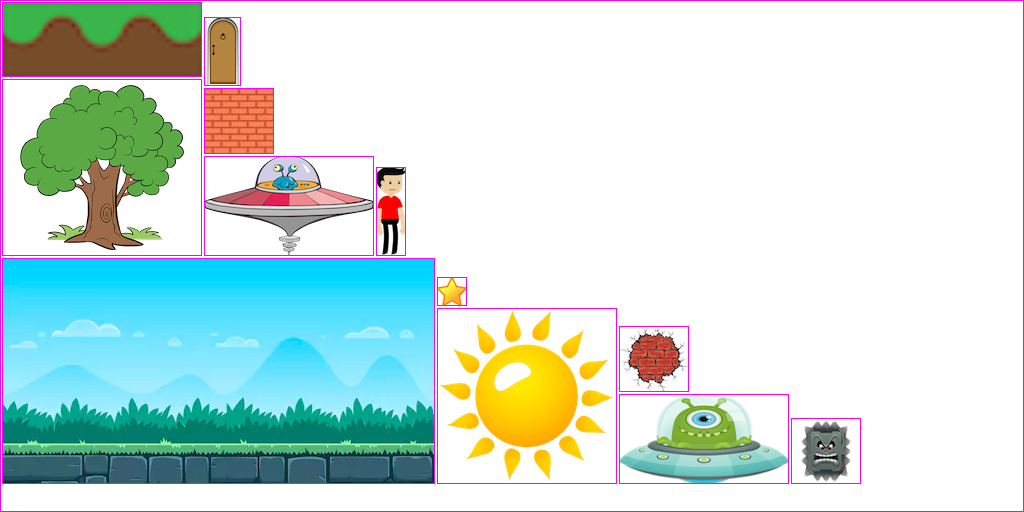
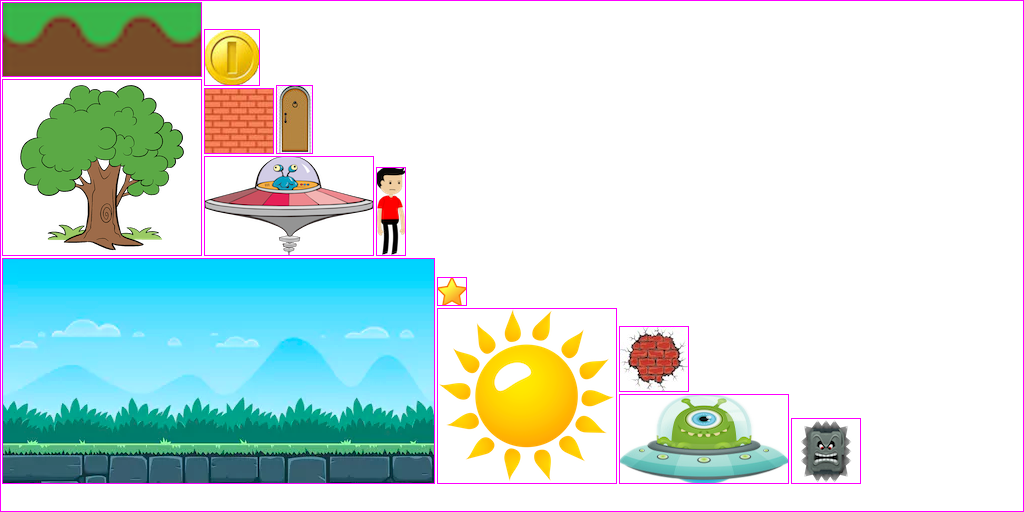
#39 - finished

Changed region(s): [[0.1875, 0.0312, 0.3125, 0.3125]]

diff --git a/core/src/com/packtpub/libgdx/blockdude/game/WorldRenderer.java b/core/src/com/packtpub/libgdx/blockdude/game/WorldRenderer.java
@@ -1,14 +1,17 @@
 package com.packtpub.libgdx.blockdude.game;
 
+import com.badlogic.gdx.Gdx;
 import com.badlogic.gdx.graphics.OrthographicCamera;
 import com.badlogic.gdx.graphics.g2d.Sprite;
 import com.badlogic.gdx.graphics.g2d.SpriteBatch;
 import com.badlogic.gdx.utils.Disposable;
 import com.packtpub.libgdx.blockdude.util.Constants;
+import com.badlogic.gdx.graphics.g2d.BitmapFont;
 
 /**
  * Created by Philip Deppen (Milestone 1, 10/29/18)
  * Edited by Philip Deppen (Milestone 2, 11/6/18, issue 31)
+ * Edited by Philip Deppen (Milestone 2, 11/12/18, issue 39)
  * renders game screen
  */
 public class WorldRenderer implements Disposable
@@ -16,6 +19,7 @@ public class WorldRenderer implements Disposable
 	private OrthographicCamera camera;
     private SpriteBatch batch;
     private WorldController worldController;
+    private OrthographicCamera cameraGUI;
     
     /**
      * Created by Philip Deppen (Milestone 1, 10/29/18)
@@ -30,6 +34,7 @@ public class WorldRenderer implements Disposable
     
     /**
      * Created by Philip Deppen (Milestone 1, 10/29/18)
+     * Edited by Philip Deppen (Milestone 2, 11/12/18, issue 39)
      */
     private void init () 
     {
@@ -37,6 +42,11 @@ public class WorldRenderer implements Disposable
     		camera = new OrthographicCamera(Constants.VIEWPORT_WIDTH, Constants.VIEWPORT_HEIGHT);
     		camera.position.set(0, 0, 0);
     		camera.update();
+    		cameraGUI = new OrthographicCamera(Constants.VIEWPORT_GUI_WIDTH, Constants.VIEWPORT_GUI_HEIGHT);
+    		
+    		cameraGUI.position.set(0, 0, 0);
+    		cameraGUI.setToOrtho(true); // flip y-axis
+    		cameraGUI.update();
     }
     
     /**
@@ -48,6 +58,7 @@ public class WorldRenderer implements Disposable
     public void render () 
     {
     		renderWorld(batch);
+    		renderGui(batch);
     }
     	
 	/**
@@ -65,6 +76,7 @@ public class WorldRenderer implements Disposable
 	
     /**
      * Created by Philip Deppen (Milestone 1, 10/29/18)
+     * Edited by Philip Deppen (Milestone 2, 11/12/18, issue 39)
      * this method is called when the screen size is changed
      * @param width
      * @param height
@@ -73,7 +85,89 @@ public class WorldRenderer implements Disposable
     { 
     		camera.viewportWidth = (Constants.VIEWPORT_HEIGHT / height) * width;
     		camera.update();
+    		
+    		cameraGUI.viewportHeight = Constants.VIEWPORT_GUI_HEIGHT;
+    		cameraGUI.viewportWidth = (Constants.VIEWPORT_GUI_HEIGHT / (float) height) * (float) width;
+    		cameraGUI.position.set(cameraGUI.viewportWidth / 2, cameraGUI.viewportHeight / 2, 0);
+    		cameraGUI.update();
     }
+    
+    /**
+     * Created by Philip Deppen (Milestone 2, 11/12/18, issue 39)
+     * @param batch
+     */
+    private void renderGuiScore (SpriteBatch batch)
+    {
+    		float x = -15;
+    		float y = -15;
+    		batch.draw(Assets.instance.coin.coin, x, y, 50, 50, 100, 100, 0.35f, -0.35f, 0);
+    		Assets.instance.fonts.defaultBig.draw(batch, "" + worldController.score, x + 75, y + 37);
+    }
+    
+    /**
+     * Created by Philip Deppen (Milestone 2, 11/12/18, issue 39)
+     * @param batch
+     */
+    private void renderGuiExtraLives (SpriteBatch batch)
+    {
+    		float x = cameraGUI.viewportWidth - 50 - Constants.LIVES_START * 50;
+    		float y = -15;
+    		
+    		for (int i = 0; i < Constants.LIVES_START; i++)
+    		{
+    			if (worldController.lives <= i)
+    				batch.setColor(0.5f, 0.5f, 0.5f, 0.5f);
+			batch.draw(Assets.instance.dude.dude, x + i * 50, y, 50, 50, 120, 100, 0.35f, -0.35f, 0);
+			batch.setColor(1, 1, 1, 1);
+    		}
+    }
+    
+    /**
+     * Created by Philip Deppen (Milestone 2, 11/12/18, issue 39)
+     */
+    private void renderGuiFpsCounter (SpriteBatch batch)
+    {
+    		float x = cameraGUI.viewportWidth - 55;
+    		float y = cameraGUI.viewportHeight - 15;
+    		
+    		int fps = Gdx.graphics.getFramesPerSecond();
+    		BitmapFont fpsFont = Assets.instance.fonts.defaultNormal;
+    		
+    		if (fps >= 45) {
+    	        // 45 or more FPS show up in green
+    	        fpsFont.setColor(0, 1, 0, 1);
+    		} else if (fps >= 30) {
+    	        // 30 or more FPS show up in yellow
+	        fpsFont.setColor(1, 1, 0, 1);
+    		} else {
+    	         // less than 30 FPS show up in red	
+    	   		fpsFont.setColor(1, 0, 0, 1);
+    		}
+       
+    		fpsFont.draw(batch, "FPS: " + fps, x, y);
+    		fpsFont.setColor(1, 1, 1, 1); // white
+    }
+    
+    /**
+     * Created by Philip Deppen (Milestone 2, 11/12/18, issue 39)
+     * @param batch
+     */
+    private void renderGui (SpriteBatch batch)
+    {
+    		batch.setProjectionMatrix(cameraGUI.combined);
+    		batch.begin();
+    		// draw collected gold coins icon + text
+    		renderGuiScore(batch);
+    		
+    		// draw lives left
+    		renderGuiExtraLives(batch);
+    		
+    		// draw fps
+    		renderGuiFpsCounter(batch);
+    		
+    		batch.end();
+    }
+    
     
     /**
      * Created by Philip Deppen (Milestone 1, 10/29/18)

diff --git a/core/src/com/packtpub/libgdx/blockdude/game/Assets.java b/core/src/com/packtpub/libgdx/blockdude/game/Assets.java
@@ -31,6 +31,7 @@ public class Assets implements Disposable, AssetErrorListener
 	public AssetBrokenBlock brokenBlock;
 	public AssetMovingBlock movingBlock;
 	public AssetGround ground;
+	public AssetCoin coin;
 	public AssetLevelDecoration levelDecoration;
 	public AssetFonts fonts;	
 	
@@ -77,6 +78,7 @@ public class Assets implements Disposable, AssetErrorListener
 		brokenBlock = new AssetBrokenBlock(atlas);
 		movingBlock = new AssetMovingBlock(atlas);
 		ground = new AssetGround(atlas);
+		coin = new AssetCoin(atlas);
 		levelDecoration = new AssetLevelDecoration(atlas);
 	}
 	
@@ -201,6 +203,19 @@ public class Assets implements Disposable, AssetErrorListener
 		}
 	}
 
+	/**
+	 * Created by Philip Deppen (Milestone 2, 11/12/18, issue 39)
+	 * inner class
+	 */
+	public class AssetCoin
+	{
+		public final AtlasRegion coin;
+		
+		public AssetCoin (TextureAtlas atlas)
+		{
+			coin = atlas.findRegion("coin");
+		}
+	}
 	/**
 	 * Created by Philip Deppen (Milestone 2, 11/12/18, issue 40)
 	 * inner class for fonts
